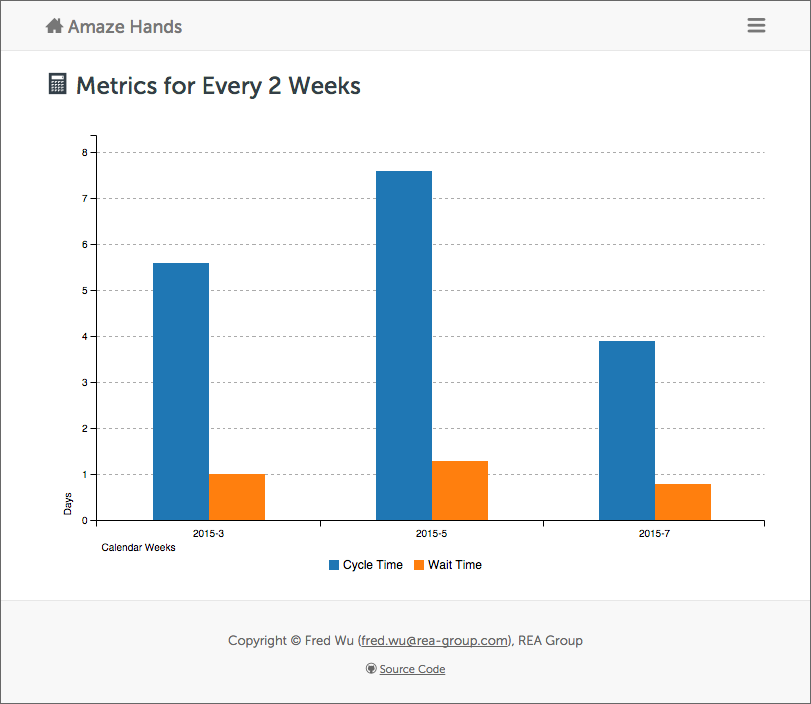
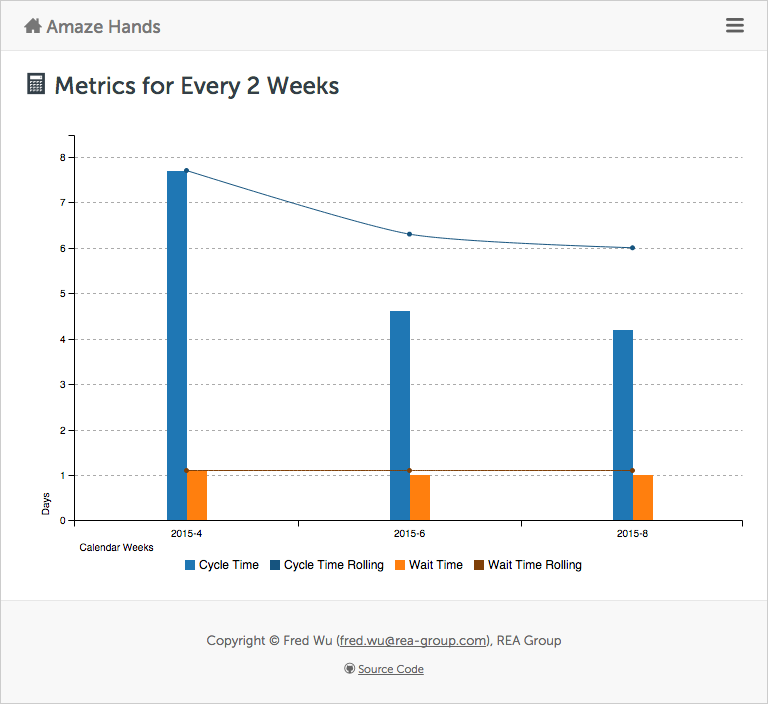
Implemented rolling average

diff --git a/apps/web/presenters/json_presenter.rb b/apps/web/presenters/json_presenter.rb
@@ -8,15 +8,30 @@ module Web::Presenters
       original_metrics = @intel.metrics(*args)
 
       {
-        type: 'bar',
+        types: {
+          'Cycle Time'         => 'bar',
+          'Cycle Time Rolling' => 'spline',
+          'Wait Time'          => 'bar',
+          'Wait Time Rolling'  => 'spline'
+        },
         xs: {
-          'Cycle Time' => 'Week',
-          'Wait Time'  => 'Week'
+          'Cycle Time'         => 'Week',
+          'Cycle Time Rolling' => 'Week',
+          'Wait Time'          => 'Week',
+          'Wait Time Rolling'  => 'Week'
+        },
+        colors: {
+          'Cycle Time'         => '#1F77B4',
+          'Cycle Time Rolling' => '#16547F',
+          'Wait Time'          => '#FF7F0E',
+          'Wait Time Rolling'  => '#7F3F07'
         },
         columns: [
           ['Week'] + original_metrics.cycle_time.keys,
           ['Cycle Time'] + original_metrics.cycle_time.map { |_, stats| stats[:combined][:average] },
-          ['Wait Time'] + original_metrics.wait_time.map { |_, stats| stats[:combined][:average] }
+          ['Cycle Time Rolling'] + original_metrics.cycle_time.map { |_, stats| stats[:combined_rolling][:average] },
+          ['Wait Time'] + original_metrics.wait_time.map { |_, stats| stats[:combined][:average] },
+          ['Wait Time Rolling'] + original_metrics.wait_time.map { |_, stats| stats[:combined_rolling][:average] }
         ]
       }.to_json
     end
